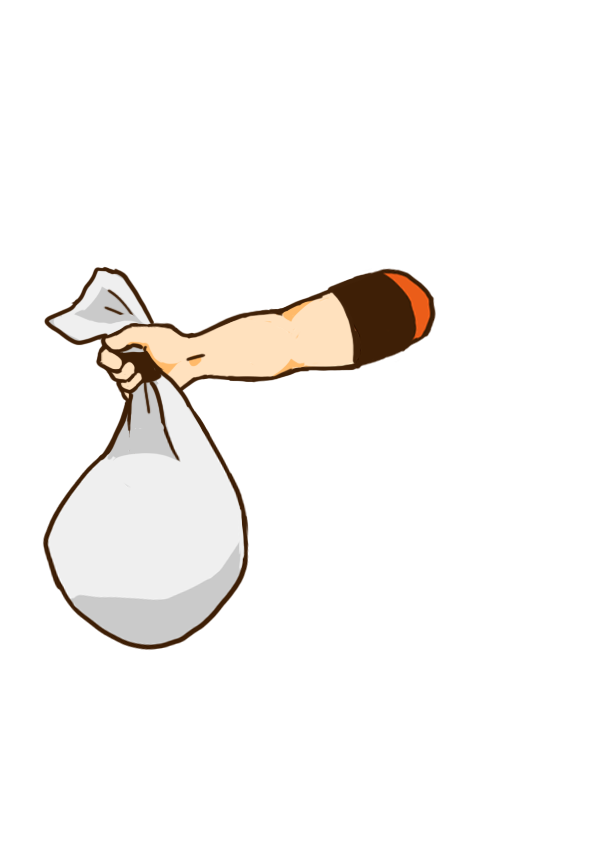
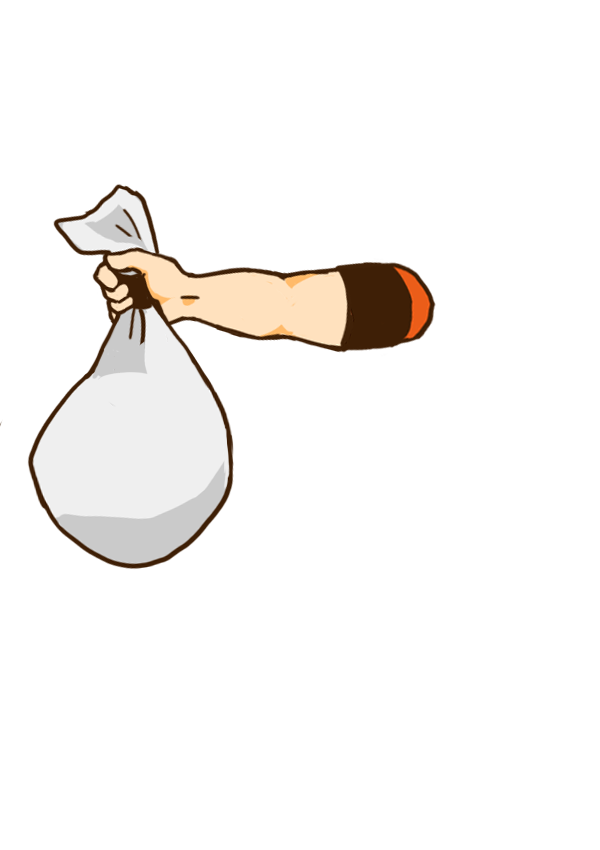
toriko fix

Changed region(s): [[0.03, 0.2141, 0.72, 0.7647], [0.09, 0.4588, 0.12, 0.4894], [0.06, 0.4894, 0.09, 0.52]]

diff --git a/src/class/coco.ts b/src/class/coco.ts
@@ -10,6 +10,7 @@ export class Coco extends PIXI.Container {
   isDown: boolean = false
   hasReaction: boolean = false
   hasFlower: boolean = false
+  hasGiftBag: boolean = false
   manual: boolean = false
   onMoving: boolean = false
   orirentation: 'left' | 'right' = 'left'
@@ -23,6 +24,7 @@ export class Coco extends PIXI.Container {
   private smileSprite!: PIXI.Sprite
   private hasFlowerSprite!: PIXI.Sprite
   private walkSprite!: AnimatedSprite
+  private walkGiftSprite!: AnimatedSprite
   private runSprite!: AnimatedSprite
   private downSprite!: AnimatedSprite
   private standUpSprite!: AnimatedSprite
@@ -37,6 +39,7 @@ export class Coco extends PIXI.Container {
   private appendCoverSprite!: PIXI.AnimatedSprite
   private getFlowerSpriteBefore!: PIXI.AnimatedSprite
   private getFlowerSpriteAfter!: PIXI.AnimatedSprite
+  private getGiftBagSprite!: PIXI.AnimatedSprite
   private walkFlowerPatchSprite!: PIXI.AnimatedSprite
   private reactionSprite!: PIXI.Sprite
   private readonly turnMargin = 50
@@ -67,14 +70,15 @@ export class Coco extends PIXI.Container {
     this.setDownSprite()
     this.setTurnLeftSprite()
 
+    // git sprite
+    this.setGetFlowerSprite()
+    this.setGetGiftSprite()
+
     // parts sprites
     this.setPatchSprites()
 
     // reation
     this.setReactionSprite()
-
-    // git sprite
-    this.setGetFlowerSprite()
 
     // animation loop
     this.app.ticker.add(() => {
@@ -119,16 +123,7 @@ export class Coco extends PIXI.Container {
   }
 
   private setWalkSprite () {
-    const walkSrcs = [
-      'cocoWalk1',
-      'cocoWalk2',
-      'cocoWalk3',
-      'cocoWalk4',
-      'cocoWalk5',
-      'cocoWalk6',
-      'cocoWalk7',
-      'cocoWalk8'
-    ]
+    const walkSrcs = ['cocoWalk1', 'cocoWalk2', 'cocoWalk3', 'cocoWalk4', 'cocoWalk5', 'cocoWalk6', 'cocoWalk7', 'cocoWalk8']
     const walkTextures = walkSrcs.map(src => PIXI.Texture.from(src))
 
     this.walkSprite = new AnimatedSprite(walkTextures)
@@ -154,6 +149,18 @@ export class Coco extends PIXI.Container {
 
     this.addChild(this.walkSprite)
     this.addChild(this.walkFlowerPatchSprite)
+
+    // has gift sprite
+    const srcWalkGift = ['cocoWalkGift1', 'cocoWalkGift2', 'cocoWalkGift3', 'cocoWalkGift4', 'cocoWalkGift5', 'cocoWalkGift6', 'cocoWalkGift7', 'cocoWalkGift8']
+    const walkGiftTextures = srcWalkGift.map(src => PIXI.Texture.from(src))
+    this.walkGiftSprite = new AnimatedSprite(walkGiftTextures)
+    this.walkGiftSprite.animationSpeed = 0.1
+    this.walkGiftSprite.name = 'walkGift'
+    this.walkGiftSprite.loop = true
+    this.walkGiftSprite.visible = false
+    this.walkGiftSprite.play()
+    this.walkGiftSprite.addChildAt(this.shadowGraphics(170, this.baseSprite.width / 2 + 20, this.baseSprite.height - 30), 0)
+    this.addChild(this.walkGiftSprite)
   }
 
   private setRunSprite () {
@@ -413,6 +420,18 @@ export class Coco extends PIXI.Container {
     this.addChild(this.hasFlowerSprite)
   }
 
+  private setGetGiftSprite () {
+    const srcGetGift = ['cocoGiftGet', 'cocoStandHasGift']
+    const getGiftTextures = srcGetGift.map(src => PIXI.Texture.from(src))
+    this.getGiftBagSprite = new AnimatedSprite(getGiftTextures)
+    this.getGiftBagSprite.animationSpeed = 0.1
+    this.getGiftBagSprite.name = 'getGift'
+    this.getGiftBagSprite.loop = false
+    this.getGiftBagSprite.visible = false
+    this.getGiftBagSprite.addChildAt(this.shadowGraphics(150, this.baseSprite.width / 2, this.baseSprite.height - 30), 0)
+    this.addChild(this.getGiftBagSprite)
+  }
+
   walk () {
     this.onMoving = true
     this.isWalking = true
@@ -423,9 +442,14 @@ export class Coco extends PIXI.Container {
     })
     this.walkFlowerPatchSprite.visible = this.hasFlower
     this.reactionSprite.visible = this.hasReaction
-    this.walkSprite.gotoAndPlay(0)
-    this.walkFlowerPatchSprite.gotoAndPlay(0)
-    this.walkSprite.visible = true
+    if (this.hasGiftBag) {
+      this.walkGiftSprite.gotoAndPlay(0)
+      this.walkGiftSprite.visible = true
+    } else {
+      this.walkSprite.gotoAndPlay(0)
+      this.walkFlowerPatchSprite.gotoAndPlay(0)
+      this.walkSprite.visible = true
+    }
     this.eyeBlinkSprite.visible = true
     this.reverseWalkPatchSprite.visible = this.orirentation === 'right'
   }
@@ -595,7 +619,7 @@ export class Coco extends PIXI.Container {
           this.downSmileSprite.onComplete = () => {
             resolve()
           }
-        } else if (this.baseSprite.visible || this.walkSprite.visible) {
+        } else if (this.baseSprite.visible || this.walkSprite.visible || this.walkGiftSprite.visible || this.getGiftBagSprite.visible) {
           this.smileSprite.visible = true
           this.smileSprite.rotation = 0
           this.smileSprite.x = 0
@@ -734,6 +758,7 @@ export class Coco extends PIXI.Container {
   setWalkSpeed (_walkSpeed: number = 6) {
     this.walkSpeed = _walkSpeed
     this.walkSprite.animationSpeed = _walkSpeed / 60
+    this.walkGiftSprite.animationSpeed = _walkSpeed / 60
   }
 
   async getFlowerBefore (): Promise<void> {
@@ -759,8 +784,18 @@ export class Coco extends PIXI.Container {
   }
 
   async getGiftBag (): Promise<void> {
-    // TODO torikoからのプレゼントをもらう
-    // TODO 退場時のアニメーション 腕を変形
-    await Common.sleep(2000)
+    this.children.forEach((child) => {
+      child.visible = false
+    })
+    this.reverseWalkPatchSprite.visible = this.orirentation === 'right'
+    this.getGiftBagSprite.visible = true
+    this.getGiftBagSprite.gotoAndPlay(0)
+    this.hasGiftBag = true
+
+    await new Promise<void>((resolve) => {
+      this.getGiftBagSprite.onComplete = () => {
+        resolve()
+      }
+    })
   }
 }

diff --git a/src/common.ts b/src/common.ts
@@ -84,6 +84,16 @@ export const imageSrcs = [{ alias: 'background', src: './images/background_grass
   { alias: 'cocoWalkFlowerPatch7', src: './images/coco_walk_flower_7.png' },
   { alias: 'cocoWalkFlowerPatch8', src: './images/coco_walk_flower_8.png' },
   { alias: 'cocoStandHasFlower', src: './images/coco_walk_flower_base.png' },
+  { alias: 'cocoWalkGift1', src: './images/coco_walk_gift_1.png' },
+  { alias: 'cocoWalkGift2', src: './images/coco_walk_gift_2.png' },
+  { alias: 'cocoWalkGift3', src: './images/coco_walk_gift_3.png' },
+  { alias: 'cocoWalkGift4', src: './images/coco_walk_gift_4.png' },
+  { alias: 'cocoWalkGift5', src: './images/coco_walk_gift_5.png' },
+  { alias: 'cocoWalkGift6', src: './images/coco_walk_gift_6.png' },
+  { alias: 'cocoWalkGift7', src: './images/coco_walk_gift_7.png' },
+  { alias: 'cocoWalkGift8', src: './images/coco_walk_gift_8.png' },
+  { alias: 'cocoStandHasGift', src: './images/coco_walk_gift_base.png' },
+  { alias: 'cocoGiftGet', src: './images/coco_walk_gift_get.png' },
   { alias: 'komatsuWalk1', src: './images/komatsu_walk_0001_walk1.png' },
   { alias: 'komatsuWalk2', src: './images/komatsu_walk_0002_walk2.png' },
   { alias: 'komatsuWalk3', src: './images/komatsu_walk_0003_walk3.png' },

diff --git a/src/main.ts b/src/main.ts
@@ -60,7 +60,7 @@ async function setUp () {
 
   // TODO 検証中
   // const functions = [torikoAppear, komatsuAppear, sunnyAppear, zebraAppear]
-  const functions = [torikoAppear]
+  const functions = [zebraAppear]
   const calledFunctions = new Set()
   document.getElementById('HBD')!.addEventListener('click', function () {
     if (onEvent) {
@@ -243,15 +243,18 @@ async function setUp () {
 
         await toriko.givePresent()
         await Common.sleep(1000)
-        coco.smile()
-        await Common.sleep(1500)
+
         toriko.removeGift()
         await coco.getGiftBag()
+        coco.smile()
+        await Common.sleep(1000)
+        // coco.smile(false)
 
         // toriko away
         toriko.walk()
         await Common.sleep(1000)
         await coco.walkTo(app.renderer.width)
+        coco.hasGiftBag = false
 
         // back to initial position
         await coco.turn()

diff --git a/src/class/toriko.ts b/src/class/toriko.ts
@@ -26,6 +26,7 @@ export class Toriko extends PIXI.Container {
     this.rightArmSprite.name = 'torikoRightArm'
     this.rightArmSprite.loop = false
     this.rightArmSprite.animationSpeed = 0.1
+    // this.rightArmSprite.angle = 10
     this.addChild(this.rightArmSprite)
 
     // base
